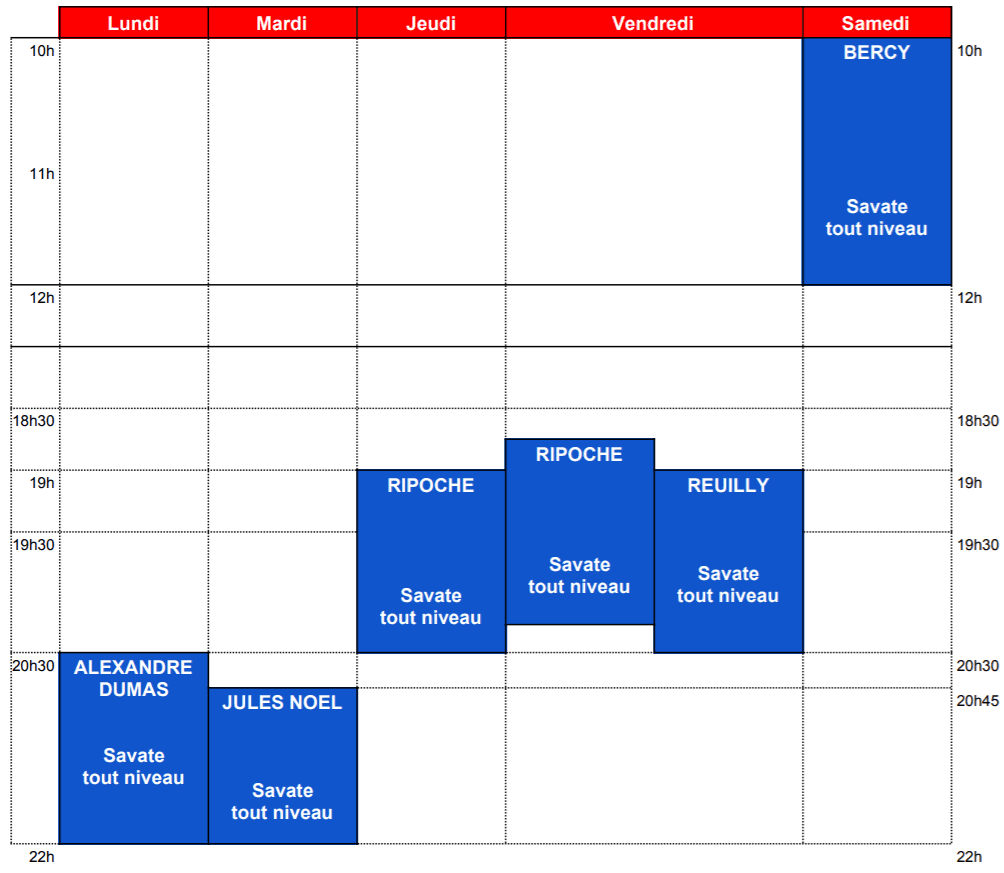
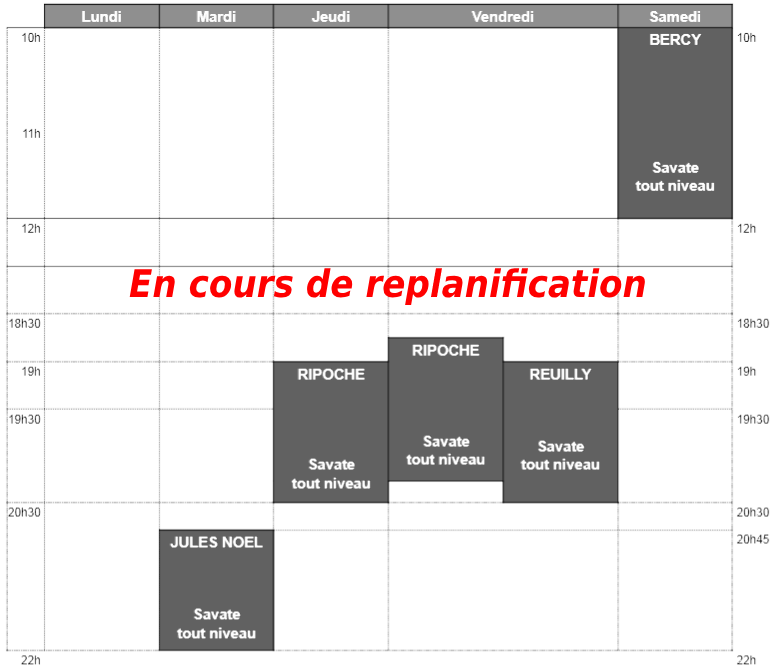
cms: planning changes

Changed region(s): [[0.0, 0.0, 1.0, 1.0]]

diff --git a/src/pages/salles.js b/src/pages/salles.js
@@ -90,7 +90,7 @@ class Salles extends React.Component {
     this.state = {
       stickyNav: false
     };
-    this.salles = [
+    this.salles = [/*
       {
         id: 'dumas',
         name: 'Alexandre Dumas',
@@ -103,7 +103,7 @@ class Salles extends React.Component {
           src,
           thumbnail,
         }))
-      }, /* {
+      },  {
                 id: 'florimont',
                 name: 'Maindron',
                 street: '6 Rue Hippolyte Maindron',

diff --git a/src/pages/planning.js b/src/pages/planning.js
@@ -95,11 +95,6 @@ class Planning extends React.Component {
                   </thead>
                   <tbody>
                   <tr>
-                    <td>Lundi</td>
-                    <td>20:30 - 22:00</td>
-                    <td>Alexandre Dumas</td>
-                  </tr>
-                  <tr>
                     <td>Mardi</td>
                     <td>20:45 - 22:00</td>
                     <td>Jules Noël</td>
